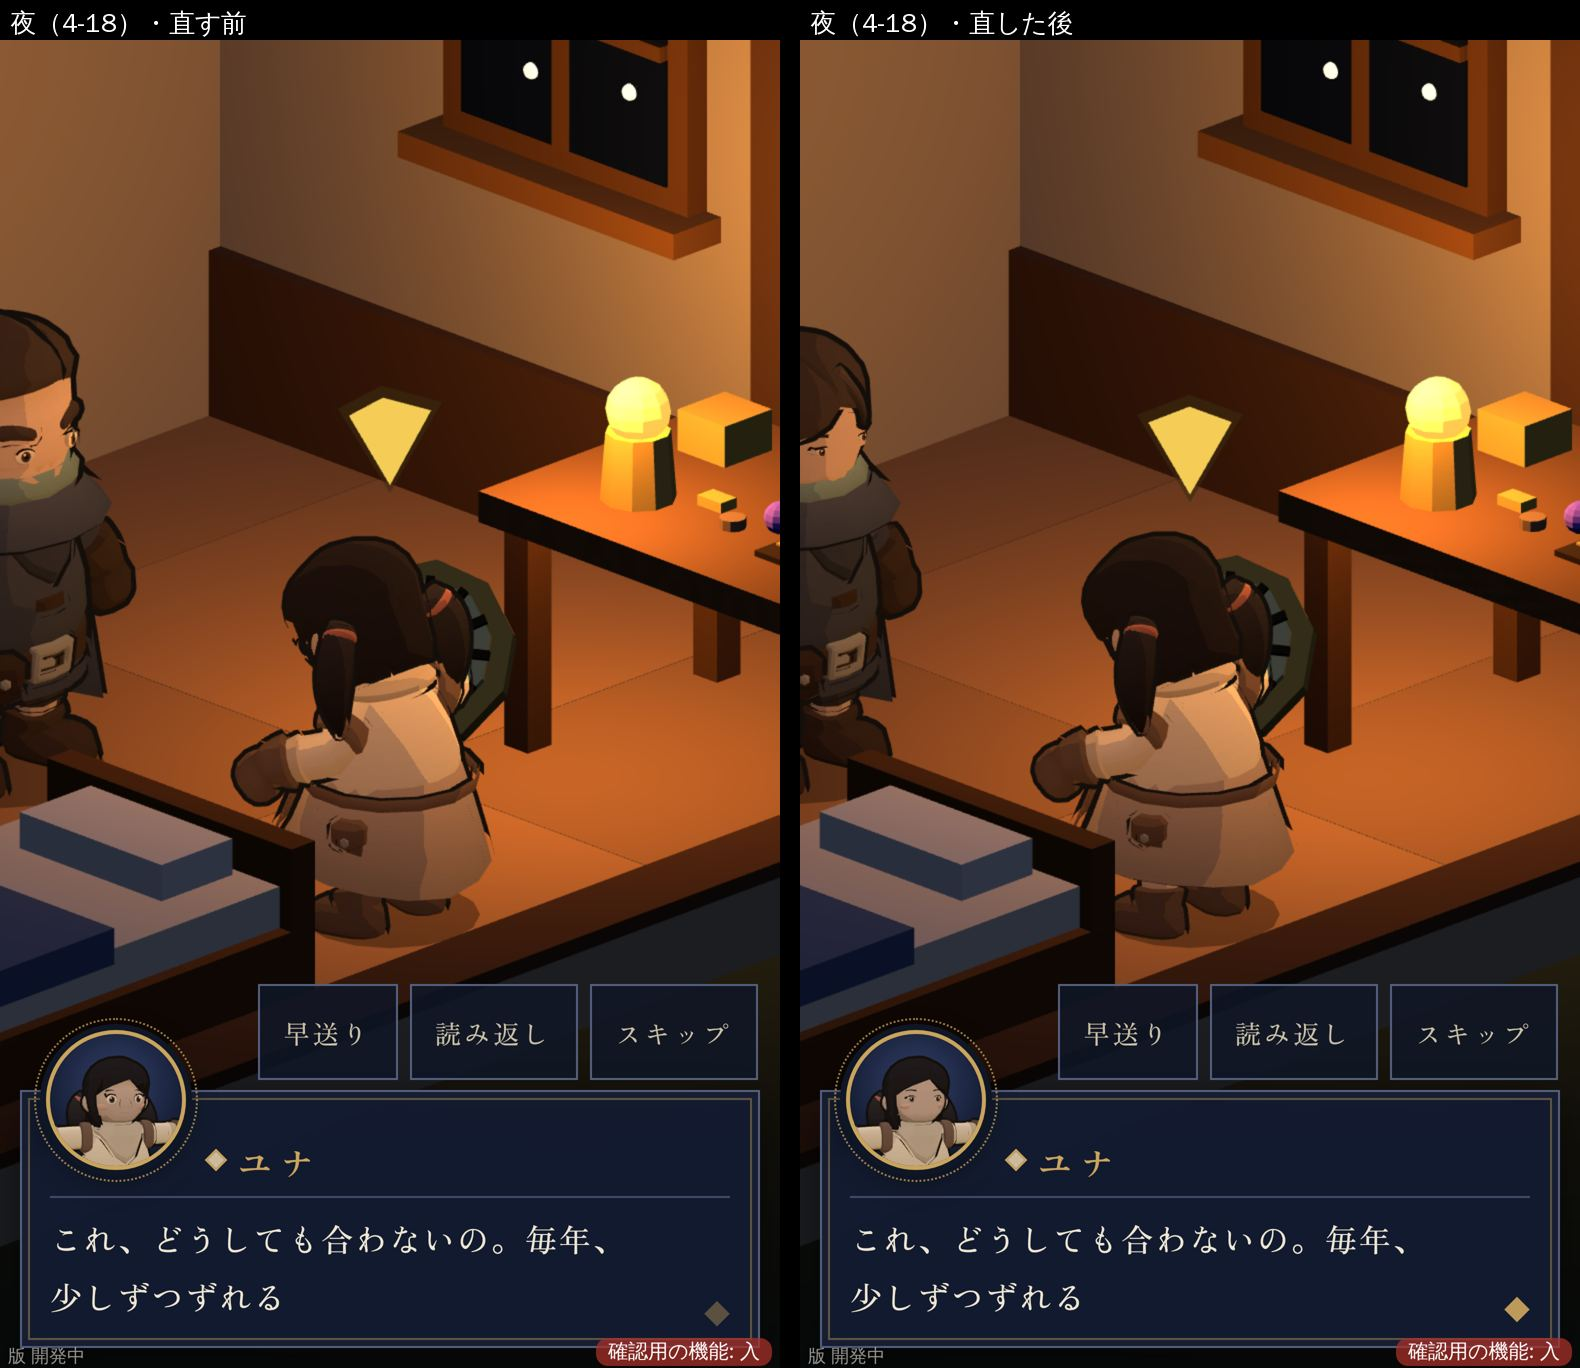
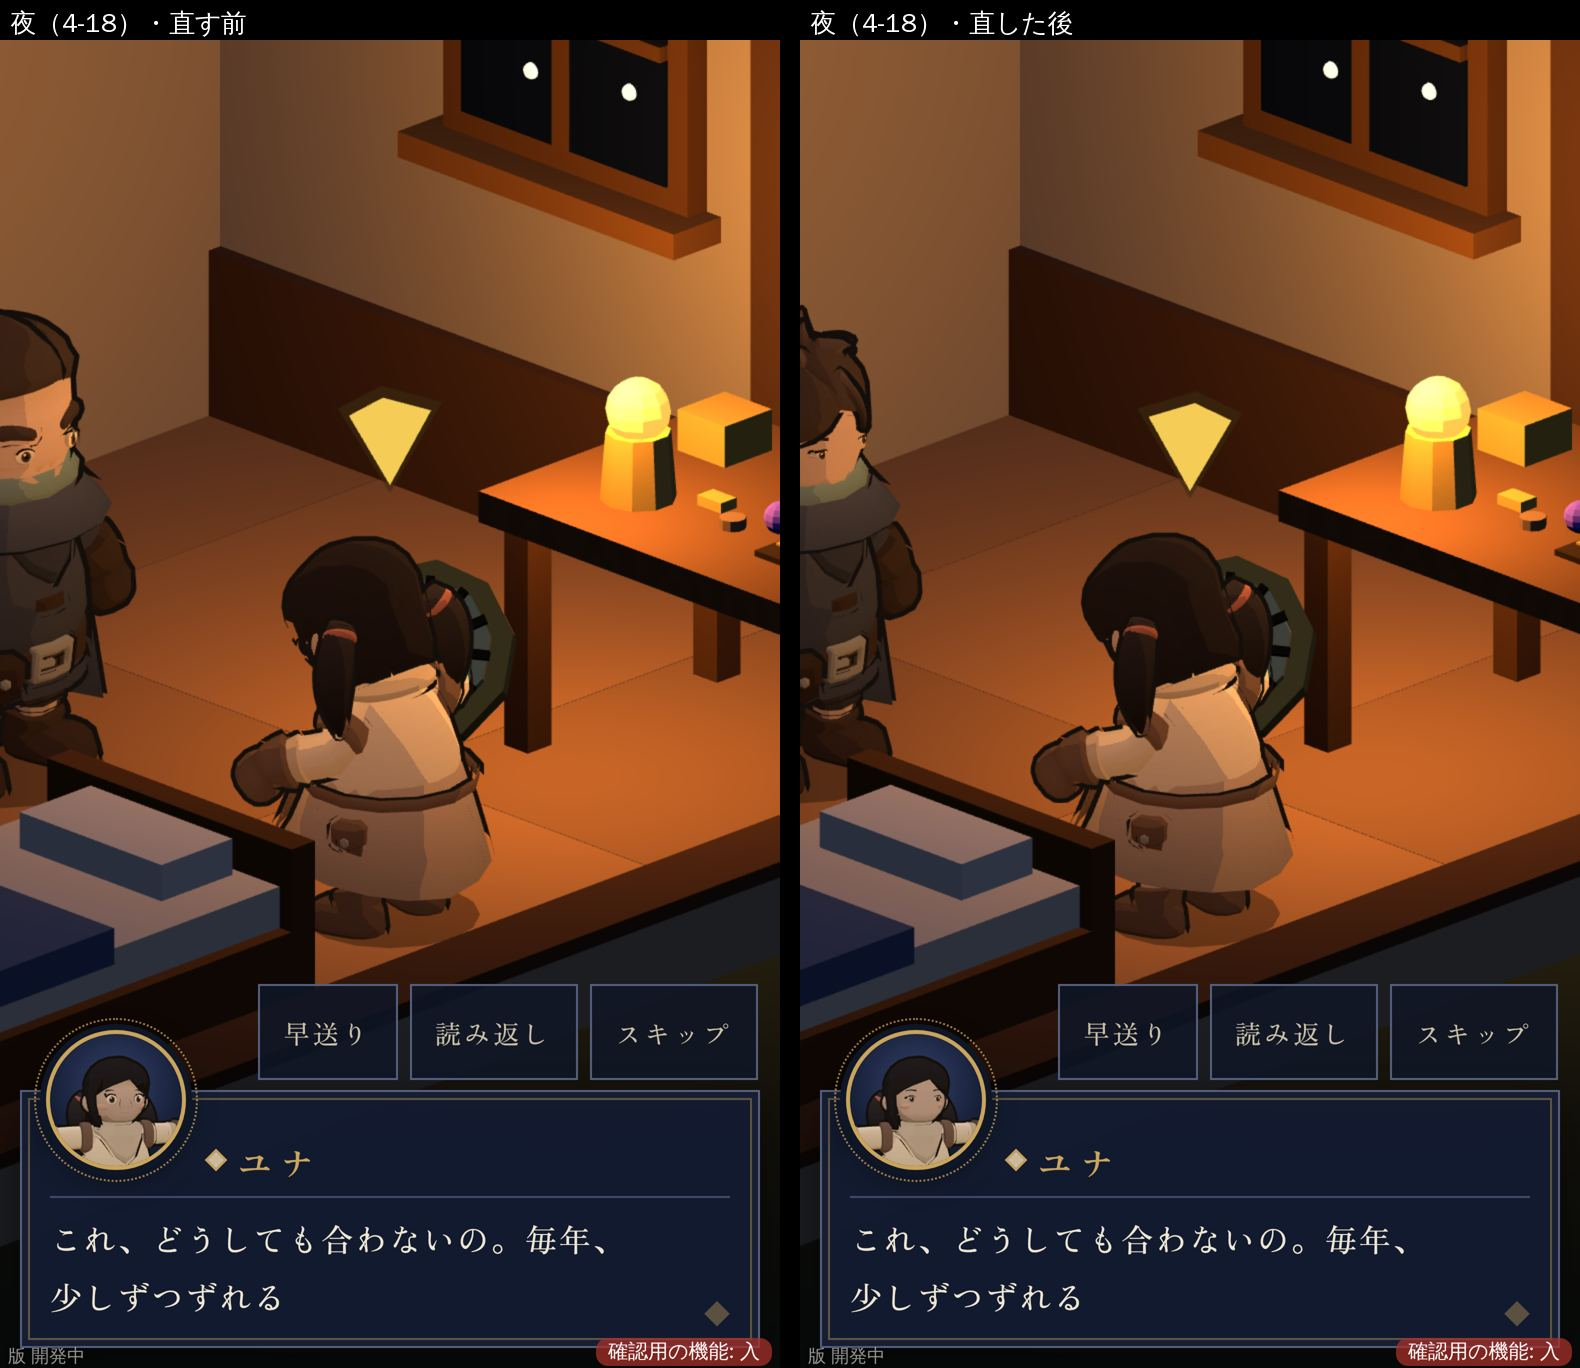
トウマのギザギザを頭全体（後ろ・横・てっぺん・額の上）に広げる（発注者の依頼）
Claude-Session: https://claude.ai/code/session_01HbSCNsMV9Mrh5cEmYFnN8S

diff --git a/src/render/kaykitHair.ts b/src/render/kaykitHair.ts
@@ -135,7 +135,7 @@ function forelock(): THREE.BufferGeometry {
 
 /**
  * ギザギザ頭（トウマ）: 頭の横と後ろの輪郭に、先のとがった太い房を数個並べる。細い束を重ねるのではなく、
- * 根もとの太い、なめらかな円すいの塊（作者の髪の面から生えて、外と下へ少し反る）。前髪の側には付けない
+ * 根もとの太い、なめらかな円すいの塊（作者の髪の面から生えて、外と下へ少し反る）。 額の上の房は、眉より上で止める
  */
 function spikes(): THREE.BufferGeometry[] {
   const out: THREE.BufferGeometry[] = [];
@@ -144,6 +144,7 @@ function spikes(): THREE.BufferGeometry[] {
   const r = new THREE.Vector3(0.5, 0.42, 0.52);
   // [向き（0 が正面、右回り。度）, 高さ（度）, 長さ, 太さ]
   const tufts: readonly [number, number, number, number][] = [
+    // 後ろ
     [125, 22, 0.26, 0.12],
     [155, 8, 0.24, 0.12],
     [180, 34, 0.28, 0.125],
@@ -151,6 +152,18 @@ function spikes(): THREE.BufferGeometry[] {
     [235, 22, 0.26, 0.12],
     [160, 58, 0.22, 0.11],
     [200, 58, 0.22, 0.11],
+    // 横（耳の上）
+    [85, 28, 0.22, 0.115],
+    [275, 28, 0.22, 0.115],
+    [60, 45, 0.2, 0.11],
+    [300, 45, 0.2, 0.11],
+    // てっぺん
+    [110, 72, 0.22, 0.115],
+    [250, 72, 0.22, 0.115],
+    [0, 78, 0.2, 0.11],
+    // 前（額の上。前へ出て、眉より上で止まる）
+    [35, 50, 0.22, 0.11],
+    [325, 50, 0.22, 0.11],
   ];
   for (const [az, el, len, th] of tufts) {
     const a = THREE.MathUtils.degToRad(az);
@@ -161,9 +174,11 @@ function spikes(): THREE.BufferGeometry[] {
     // 後ろから見て丸い玉に見えないように、頭の面に沿って下へ流し、毛先だけ外へ出す（後ろからは下向きの三角に見える）
     const base = onSurface(0.72);
     const mid = onSurface(1.0 + len * 0.25);
-    mid.y -= len * 0.35;
-    const tip = onSurface(1.0 + len * 1.0);
-    tip.y -= len * 0.8;
+    // 上の房ほど垂らさない（てっぺんの房が垂れると、髪の上に乗ったこぶに見えた）
+    const droop = 1 - Math.min(1, el / 90) * 0.75;
+    mid.y -= len * 0.35 * droop;
+    const tip = onSurface(1.0 + len * (1.0 + 0.3 * (1 - droop)));
+    tip.y -= len * 0.8 * droop;
     out.push(
       smoothTube(
         [base.toArray() as unknown as V3, mid.toArray() as unknown as V3, tip.toArray() as unknown as V3],

diff --git a/src/data/story/looks.ts b/src/data/story/looks.ts
@@ -117,7 +117,7 @@ export interface KayKitLook {
     /** 作者が頭と一体で作った髪のどれを使うか（knight 短い・rogue 中くらいの長さ・mage 長い） */
     readonly kit: Exclude<KayKitHead, 'barbarian'>;
     readonly color: number;
-    /** 自作で足す、なめらかな大きな塊（bun 後ろのまとめ・twinTails 二つ結びのおさげ・ponytail 後ろで1つに結んだ房・forelock 垂れた前髪の1房・spikes ギザギザ頭（横と後ろの、先のとがった太い房）） */
+    /** 自作で足す、なめらかな大きな塊（bun 後ろのまとめ・twinTails 二つ結びのおさげ・ponytail 後ろで1つに結んだ房・forelock 垂れた前髪の1房・spikes ギザギザ頭（頭のまわりの、先のとがった太い房）） */
     readonly extras?: readonly ('bun' | 'twinTails' | 'ponytail' | 'forelock' | 'spikes')[];
     /** 作者の髪の形を変える（長さ・量・前髪・分け目・立たせる） */
     readonly shape?: KayKitHairShape;
@@ -187,7 +187,7 @@ const TOUMA_KAYKIT: KayKitLook = {
   boots: LEATHER_DARK,
   // 青年らしく（場面4の顔の直し。設計書「二十歳前後・中背の細身・黒の短髪」）: 作者の中くらいの長さの髪（rogue）を、横と後ろを短くし、
   // 分け目をユナと反対にして使う（前髪が額にかかり、生え際が下がる）。色は、外套と分かれて見えるように、真っ黒より明るく暖かい黒。
-  // 発注者の依頼で、垂れた前髪の1房と、横と後ろのギザギザ（先のとがった太い房）を足した
+  // 発注者の依頼で、垂れた前髪の1房と、頭全体のギザギザ（先のとがった太い房）を足した
   hair: { kit: 'rogue', color: 0x382c28, shape: { length: 0.22, mirror: true }, extras: ['forelock', 'spikes'] },
   // 切れ長の目と、目に近いまっすぐな眉（怒った角度にしない）。あごを細く
   face: { eyes: 'narrow', brows: 'normal', browLift: -0.01, slim: 0.1 },
